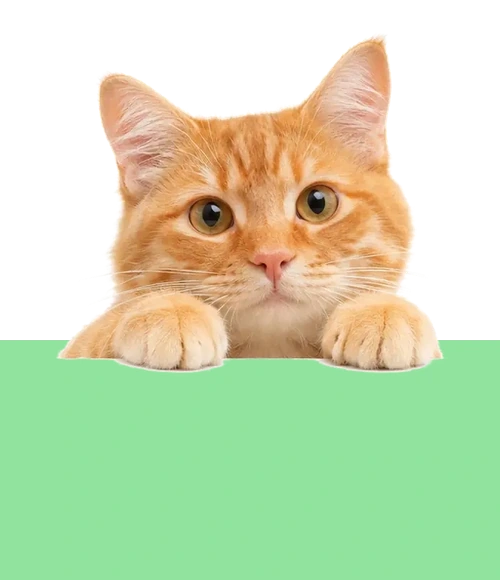
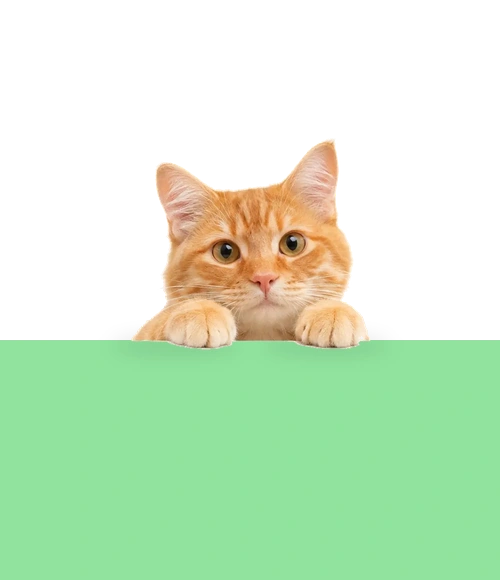
fix: natural pet hero panels with aligned paw ledges

Changed region(s): [[0.12, 0.0621, 0.9, 0.6517]]

diff --git a/app/globals.css b/app/globals.css
@@ -300,57 +300,187 @@
 }
 
 
-/* Unified illustrated cards: animal + actual background are one immutable WebP.
-   Never stretch the dog over independently positioned UI panels. */
-.hero-stage{height:clamp(445px,36vw,550px)!important}
-.hero-pet-panels{
-  direction:ltr; display:grid; grid-template-columns:repeat(3,minmax(0,1fr));
-  width:min(100%,1600px); margin:clamp(-363px,-22.6667vw,-90px) auto 0;
-  position:relative; z-index:15; isolation:isolate;
+/* ==========================================================================
+   Hero rebuild v6 — actual pet/photo/panel composites.
+   Animals and panels are single WebP assets, with one shared image coordinate
+   for the 340px paw ledge. No resized separate cutouts, masks or overlay hacks.
+   ========================================================================== */
+.hero-shell{min-height:0!important;overflow:hidden}
+.hero-stage{
+  height:clamp(430px,35vw,510px)!important;
+  position:relative;
+  overflow:visible;
 }
-.hero-pet-panel{position:relative; min-width:0; padding:0; aspect-ratio:500/580; overflow:visible; background:transparent}
-.hero-pet-panel--middle{background:transparent; color:white}
+.hero-wordmark{top:32px}
+.hero-pet-panels{
+  direction:ltr;
+  position:relative;
+  z-index:10;
+  isolation:isolate;
+  display:grid;
+  grid-template-columns:repeat(3,minmax(0,1fr));
+  width:100%;
+  max-width:1600px;
+  margin:-170px auto 0;
+  padding:0;
+  background:none;
+  overflow:visible;
+}
+.hero-pet-panel{
+  position:relative;
+  min-width:0;
+  width:100%;
+  aspect-ratio:500/580;
+  margin:0;
+  padding:0;
+  border:0;
+  overflow:visible;
+  background:transparent;
+}
+.hero-pet-panel::before{display:none!important}
+.hero-pet-panel--middle{background:transparent;color:#fff}
 .hero-pet-panel-media{
-  display:block; width:100%; height:auto; aspect-ratio:500/580;
-  object-fit:contain; object-position:top; pointer-events:none; user-select:none;
+  display:block;
+  position:absolute;
+  inset:0;
+  width:100%;
+  height:100%;
+  max-width:none;
+  aspect-ratio:500/580;
+  object-fit:contain;
+  object-position:center top;
+  filter:none!important;
+  transform:none!important;
+  mix-blend-mode:normal;
+  pointer-events:none;
+  user-select:none;
 }
 .hero-pet-panel-caption{
-  position:absolute; z-index:1; bottom:clamp(18px,2vw,30px);
-  left:10px; right:10px; direction:rtl; display:flex;
-  align-items:center; justify-content:flex-end; flex-direction:column;
-  gap:10px; text-align:center; min-height:96px;
+  direction:rtl;
+  position:absolute;
+  z-index:2;
+  left:3%;
+  right:3%;
+  bottom:clamp(14px,1.9vw,30px);
+  top:auto;
+  display:flex;
+  flex-direction:column;
+  align-items:center;
+  justify-content:flex-end;
+  gap:8px;
+  min-height:0;
+  text-align:center;
 }
-.hero-pet-stat{font-size:clamp(24px,2.9vw,48px);font-weight:900;letter-spacing:-1px;white-space:nowrap;line-height:1.35;color:#04391f}
-.hero-stat-symbol{color:#ff8724;font-size:.77em;vertical-align:baseline;display:inline-block}
-.hero-stat-paws{font-size:.52em;vertical-align:middle}
-.hero-pet-panel-caption p{max-width:270px;font-size:clamp(11px,1.05vw,14px);line-height:1.8;color:#3f7850;margin:0;font-weight:500}
-.hero-pet-panel-caption h2{font-size:clamp(18px,1.65vw,27px);line-height:1.45;margin:0;color:white}
-.hero-pet-panel-caption .pill-button{align-self:center}
+.hero-pet-stat{
+  font-size:clamp(25px,3vw,46px);
+  line-height:1.2;
+  font-weight:900;
+  letter-spacing:-1px;
+  color:#04391f;
+  white-space:nowrap;
+}
+.hero-stat-symbol{color:#ff8724;font-size:.75em;vertical-align:middle}
+.hero-stat-paws{font-size:.55em}
+.hero-pet-panel-caption p{
+  font-size:clamp(11px,1.03vw,14px);
+  line-height:1.65;
+  font-weight:500;
+  max-width:260px;
+  color:#356b43;
+  margin:0;
+}
+.hero-pet-panel-caption h2{
+  font-size:clamp(18px,1.7vw,27px);
+  line-height:1.43;
+  margin:0;
+  color:white;
+}
+.hero-pet-panel-caption .pill-button{
+  align-self:center;
+  min-height:44px;
+}
 @media(max-width:760px){
- .topbar{position:relative;justify-content:space-between}
- .topbar .brand{position:absolute;left:50%;transform:translateX(-50%);margin:0;min-width:0;order:0;font-size:20px;z-index:1;pointer-events:auto}
- .topbar .brand-icon{display:flex}
- .topbar .mobile-paw-menu{order:0;margin-inline-end:auto;position:relative;z-index:2}
- .topbar .top-actions{order:2;margin-inline-start:auto;position:relative;z-index:2}
- .hero-stage{height:clamp(265px,72vw,350px)!important}
- .hero-pet-panels{
-   width:100vw;max-width:none;left:auto;transform:none;
-   margin-top:calc(-100vw * .226667);grid-template-columns:repeat(3,minmax(0,1fr));
- }
- .hero-pet-panel{aspect-ratio:auto;min-height:clamp(235px,62vw,320px);overflow:hidden;isolation:isolate}
- .hero-pet-panel::before{content:"";position:absolute;top:calc(100vw * .68 / 3);bottom:0;left:0;right:0;background:#91e39e;z-index:0}
- .hero-pet-panel--middle::before{background:#004219}
- .hero-pet-panel-media{width:100%;height:auto;aspect-ratio:500/580;object-fit:contain;position:relative;z-index:1}
- .hero-pet-panel-caption{bottom:12px;left:4px;right:4px;gap:5px;min-height:auto}
- .hero-pet-stat{font-size:clamp(18px,5vw,28px);letter-spacing:-.4px}
- .hero-pet-panel-caption p{font-size:clamp(8px,2vw,11px);line-height:1.55}
- .hero-pet-panel-caption h2{font-size:clamp(12px,3vw,17px);line-height:1.55}
- .hero-pet-panel-caption .pill-button{gap:4px;font-size:clamp(8px,1.9vw,11px);padding:4px 7px 4px 4px}
- .hero-pet-panel-caption .pill-button span{height:24px;width:24px}
+  .hero-stage{
+    height:clamp(315px,82vw,350px)!important;
+  }
+  .hero-wordmark{top:47px}
+  .hero-wordmark h1{
+    font-size:clamp(35px,9.4vw,47px);
+    line-height:1.37;
+    letter-spacing:-1.1px;
+  }
+  .hero-wordmark p{font-size:11px;line-height:1.8}
+  /* No microscopic side cards: focus is pets and the headline. */
+  .hero-feature,.side-review{display:none!important}
+  .hero-pet-panels{
+    width:100%;
+    max-width:none;
+    height:auto;
+    aspect-ratio:1170/780;
+    margin:-65px auto 0;
+    background-image:url('/images/pet-trio-mobile.webp');
+    background-repeat:no-repeat;
+    background-position:center top;
+    background-size:100% 100%;
+    overflow:visible;
+  }
+  .hero-pet-panel{
+    min-height:0;
+    height:100%;
+    aspect-ratio:auto;
+    overflow:visible;
+    background:transparent!important;
+  }
+  .hero-pet-panel-media{display:none}
+  .hero-pet-panel-caption{
+    left:4px;
+    right:4px;
+    bottom:clamp(7px,2vw,13px);
+    gap:clamp(4px,1vw,7px);
+    min-height:0;
+    justify-content:end;
+  }
+  .hero-pet-stat{
+    font-size:clamp(17px,4.9vw,24px);
+    letter-spacing:-.4px;
+  }
+  .hero-pet-panel-caption p{
+    font-size:clamp(9px,2.3vw,11px);
+    line-height:1.5;
+  }
+  .hero-pet-panel-caption h2{
+    font-size:clamp(11px,3.0vw,16px);
+    line-height:1.4;
+  }
+  .hero-pet-panel-caption .pill-button{
+    min-height:30px;
+    padding:3px 7px 3px 3px;
+    font-size:clamp(8px,2.2vw,11px);
+    gap:5px;
+  }
+  .hero-pet-panel-caption .pill-button span{
+    width:24px;
+    height:24px;
+  }
+  .topbar{position:relative;direction:rtl}
+  .topbar .brand{
+    position:absolute;
+    top:50%;
+    left:50%;
+    transform:translate(-50%,-50%);
+    width:44px;
+    height:44px;
+    min-width:44px;
+    display:grid;
+    place-items:center;
+    margin:0;
+    z-index:2;
+  }
+  .topbar .mobile-paw-menu{order:0;margin-inline-end:auto;position:relative;z-index:3}
+  .topbar .top-actions{order:2;margin-inline-start:auto;position:relative;z-index:3}
 }
 @media(max-width:400px){
- .topbar .brand{font-size:17px}
- .topbar .brand-icon svg{width:23px;height:23px}
- .hero-pet-panel{min-height:245px}
- .hero-pet-panel-caption{bottom:11px}
+  .hero-pet-panel-caption{bottom:8px;gap:4px}
+  .hero-pet-panel-caption p{font-size:9px}
+  .hero-pet-panel-caption .pill-button{min-height:28px}
 }

diff --git a/app/page.jsx b/app/page.jsx
@@ -70,10 +70,10 @@ function Loader({onDone}) {
    // Exactly the supplied dog animation: a 6-second transparent WebP loop.
    const dog=new window.Image();
    const imageSources=[
-     "/images/hero-golden-v3.webp",
-     "/images/hero-dachshund-v3.webp",
-     "/images/hero-cat-v3.webp",
-     "/images/hero-puppy.webp",
+     "/images/pet-tile-golden.webp",
+     "/images/pet-tile-dachshund.webp",
+     "/images/pet-tile-cat.webp",
+     "/images/pet-trio-mobile.webp",
    ];
    const prefetch=(src)=>new Promise(resolve=>{
      const img=new window.Image();
@@ -167,8 +167,8 @@ export default function Home(){
    <section className="hero-pet-panel hero-pet-panel--left">
      <img className="hero-pet-panel-media" src="/images/pet-tile-dachshund.webp" alt="سگ داشهوند با پنجهها روی لبه کارت سبز" width="500" height="580" fetchPriority="high" />
      <div className="hero-pet-panel-caption">
-       <strong className="hero-pet-stat"><span aria-hidden="true" className="hero-stat-symbol">★</span> ۴.۶</strong>
-       <p>از نظر صاحبهای حیوانات دوستداشتنی</p>
+       <strong className="hero-pet-stat">۹۸ هزار <span aria-hidden="true" className="hero-stat-symbol hero-stat-paws">🐾</span></strong>
+       <p>همراه خوشحال و رفیقهای پشمالوشون</p>
      </div>
    </section>
    <section className="hero-pet-panel hero-pet-panel--middle">
@@ -181,8 +181,8 @@ export default function Home(){
    <section className="hero-pet-panel hero-pet-panel--right">
      <img className="hero-pet-panel-media" src="/images/pet-tile-cat.webp" alt="گربه نارنجی با پنجهها روی لبه کارت سبز" width="500" height="580" fetchPriority="high" />
      <div className="hero-pet-panel-caption">
-       <strong className="hero-pet-stat">۹۸ هزار <span aria-hidden="true" className="hero-stat-symbol hero-stat-paws">🐾</span></strong>
-       <p>همراه خوشحال و رفیقهای پشمالوشون</p>
+       <strong className="hero-pet-stat"><span aria-hidden="true" className="hero-stat-symbol">★</span> ۴.۶</strong>
+       <p>از نظر صاحبهای حیوانات دوستداشتنی</p>
      </div>
    </section>
  </div>
